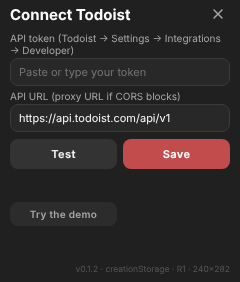
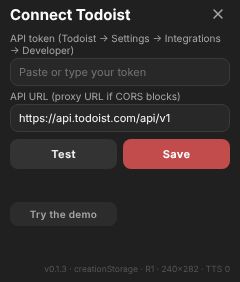
Todoist 0.1.3: read aloud with the device voice first
On the R1 the read-aloud text went through the R1's LLM, which
embellished it. The app now tries the webview's speech synthesis first
(word for word, no LLM) when it has a voice in the app language and it
starts within 1.5 s; otherwise it falls back to the R1 voice with a
stricter prompt. The toast names the voice used and setup shows the
number of TTS voices. German and English, both READMEs, 121 checks.

Claude-Session: https://claude.ai/code/session_0169St2Lp8zqAJDK5dLJTKNS

Changed region(s): [[0.5833, 0.9362, 0.9625, 0.9645], [0.2625, 0.9362, 0.525, 0.9645], [0.175, 0.9362, 0.2333, 0.9645]]

diff --git a/en/index.html b/en/index.html
@@ -219,7 +219,7 @@ textarea:focus, .inp:focus { border-color: #6E6E6E; }
 // ====================================================================
 // Todoist for the Rabbit R1 — one file, no build step. German + English (I18N).
 // ====================================================================
-const APP_VERSION = '0.1.2';
+const APP_VERSION = '0.1.3';
 const API_BASE = 'https://api.todoist.com/api/v1';   // switch to a proxy URL in setup if CORS blocks
 const NS = 'todoist_';                                 // storage namespace (shared origin)
 const SYNC_MS = 60000;
@@ -257,14 +257,14 @@ const I18N = {
     err_429: 'Zu viele Anfragen (429) – später erneut', err_other: 'Fehler {0}',
     loading: 'Lädt …', no_projects: 'Keine Projekte', nothing_found: 'Nichts gefunden',
     search_empty: 'Tippe oder halte PTT<br>zum Diktieren', all_done: 'Alles erledigt.<br>PTT halten oder + für neue Aufgabe',
-    pending: 'wartet auf Sync', saved_to: 'Gespeichert → {0}', reading: 'Lese {0} vor …',
+    pending: 'wartet auf Sync', saved_to: 'Gespeichert → {0}', reading: 'Lese {0} vor …', via_device: 'Gerätestimme', via_r1: 'R1-Stimme',
     nothing_heard: 'Nichts gehört', nothing_heard_long: 'Nichts gehört – PTT halten und sprechen',
     empty_discarded: 'Leer – verworfen', discarded: 'Verworfen',
     d_today: 'Heute', d_tomorrow: 'Morgen', d_yesterday: 'Gestern',
     months: ['Jan', 'Feb', 'März', 'Apr', 'Mai', 'Juni', 'Juli', 'Aug', 'Sept', 'Okt', 'Nov', 'Dez'],
     no_tasks: '{0}: keine Aufgaben.', task1: 'Aufgabe', taskN: 'Aufgaben', project1: 'Projekt', projectN: 'Projekte',
     numbers: ['Eins', 'Zwei', 'Drei', 'Vier', 'Fünf', 'Sechs', 'Sieben', 'Acht'],
-    speak_prompt: 'Sprich genau diesen Text, ohne Zusätze, ohne Einleitung und ohne Kommentar: "{0}"', tts: 'de-DE'
+    speak_prompt: 'Du bist nur eine Vorlesestimme. Gib ausschließlich den folgenden Text aus, Wort für Wort, und sonst nichts: keine Begrüßung, keine Einleitung, keine Zusammenfassung, keine Rückfrage, kein Kommentar, nichts davor oder danach.\n\n{0}', tts: 'de-DE'
   },
   en: {
     inbox: 'Inbox', today: 'Today', search: 'Search', browse: 'Browse', project: 'Project',
@@ -290,14 +290,14 @@ const I18N = {
     err_429: 'Too many requests (429) – retrying later', err_other: 'Error {0}',
     loading: 'Loading …', no_projects: 'No projects', nothing_found: 'Nothing found',
     search_empty: 'Type, or hold PTT<br>to dictate', all_done: 'All done.<br>Hold PTT or tap + for a new task',
-    pending: 'waiting to sync', saved_to: 'Saved → {0}', reading: 'Reading {0} …',
+    pending: 'waiting to sync', saved_to: 'Saved → {0}', reading: 'Reading {0} …', via_device: 'device voice', via_r1: 'R1 voice',
     nothing_heard: 'Nothing heard', nothing_heard_long: 'Nothing heard – hold PTT and speak',
     empty_discarded: 'Empty – discarded', discarded: 'Discarded',
     d_today: 'Today', d_tomorrow: 'Tomorrow', d_yesterday: 'Yesterday',
     months: ['Jan', 'Feb', 'Mar', 'Apr', 'May', 'Jun', 'Jul', 'Aug', 'Sep', 'Oct', 'Nov', 'Dec'],
     no_tasks: '{0}: no tasks.', task1: 'task', taskN: 'tasks', project1: 'project', projectN: 'projects',
     numbers: ['One', 'Two', 'Three', 'Four', 'Five', 'Six', 'Seven', 'Eight'],
-    speak_prompt: 'Say exactly this text, with nothing added, no introduction and no comment: "{0}"', tts: 'en-US'
+    speak_prompt: 'You are only a text-to-speech voice. Output only the following text, word for word, and nothing else: no greeting, no introduction, no summary, no follow-up question, no comment, nothing before or after it.\n\n{0}', tts: 'en-US'
   }
 };
 const L = I18N[LANG];
@@ -1023,18 +1023,46 @@ function speakList() {
     const noun = S.view === 'browse' ? tx(total === 1 ? 'project1' : 'projectN') : tx(total === 1 ? 'task1' : 'taskN');
     text = titleFor() + ', ' + total + ' ' + noun + '. ' + items.map((t, i) => words[i] + ': ' + String(t.content || t.name).replace(/["„“]/g, '').replace(/[.!?]+$/, '') + '.').join(' ');
   }
-  if (IS_R1) {
+  const n = Math.min(8, S.items.length);
+  const viaR1 = () => {
     try {
       PluginMessageHandler.postMessage(JSON.stringify({
         message: tx('speak_prompt', text),
         useLLM: true, wantsR1Response: true
       }));
     } catch (e) {}
-  } else if (window.speechSynthesis) {
-    try { const u = new SpeechSynthesisUtterance(text); u.lang = tx('tts'); speechSynthesis.cancel(); speechSynthesis.speak(u); } catch (e) {}
-  }
-  toast(tx('reading', Math.min(8, S.items.length)), 1600);
+    toast(tx('reading', n) + ' · ' + tx('via_r1'), 1600);
+  };
+  // The device voice reads word for word; the R1 voice goes through its LLM,
+  // which may embellish. So try the device voice first and fall back.
+  speakDevice(text, () => { toast(tx('reading', n) + ' · ' + tx('via_device'), 1600); }, IS_R1 ? viaR1 : () => {});
 }
+
+// Web Speech synthesis, if the webview has a voice in our language. On the R1
+// it only counts if speech actually starts within 1.5 s; otherwise onFail.
+function deviceVoice() {
+  try {
+    const want = tx('tts').slice(0, 2).toLowerCase();
+    return (window.speechSynthesis && speechSynthesis.getVoices() || [])
+      .find((v) => (v.lang || '').replace('_', '-').toLowerCase().slice(0, 2) === want) || null;
+  } catch (e) { return null; }
+}
+function speakDevice(text, onStart, onFail) {
+  let settled = false;
+  const fail = () => { if (settled) return; settled = true; try { speechSynthesis.cancel(); } catch (e) {} onFail(); };
+  const voice = deviceVoice();
+  if (!window.speechSynthesis || typeof SpeechSynthesisUtterance === 'undefined' || (IS_R1 && !voice)) { settled = true; onFail(); return; }
+  try {
+    const u = new SpeechSynthesisUtterance(text);
+    u.lang = tx('tts'); if (voice) { try { u.voice = voice; } catch (e) {} }
+    u.onstart = () => { if (settled) return; settled = true; onStart(); };
+    u.onerror = fail;
+    speechSynthesis.cancel(); speechSynthesis.speak(u);
+    if (IS_R1) setTimeout(fail, 1500);
+    else { settled = true; onStart(); }
+  } catch (e) { fail(); }
+}
+try { if (window.speechSynthesis) { speechSynthesis.getVoices(); speechSynthesis.addEventListener('voiceschanged', () => {}); } } catch (e) {}
 
 // ---------------- screens ----------------
 function show(name) {
@@ -1148,7 +1176,8 @@ function openSetup(first) {
   $('st-queue').textContent = tx('queue_clear', n);
   $('st-queue').style.visibility = n ? 'visible' : 'hidden';
   $('st-ver').textContent = 'v' + APP_VERSION + ' · ' + (SDK ? 'creationStorage' : 'localStorage') + (IS_R1 ? ' · R1' : ' · Desktop')
-    + ' · ' + window.innerWidth + '×' + window.innerHeight;
+    + ' · ' + window.innerWidth + '×' + window.innerHeight
+    + ' · TTS ' + (window.speechSynthesis ? (speechSynthesis.getVoices() || []).length + (deviceVoice() ? '+' : '') : '–');
   show('setup');
 }
 function setupMsg(text, cls) { const el = $('st-msg'); el.textContent = text; el.className = cls || ''; }

diff --git a/en/install.html b/en/install.html
@@ -37,7 +37,7 @@ li { margin: 4px 0; } code { font-size: 12px; }
 <script>
 // The QR is built from wherever this page is served, so forks need no edits.
 // Fallback: the pre-rendered qr.png (GitHub Pages URL) stays visible if the CDN is blocked.
-var ENTRY = 'index-v0.1.2.html';
+var ENTRY = 'index-v0.1.3.html';
 var url = location.href.replace(/install\.html.*$/, '') + ENTRY + '?v=1';
 var payload = JSON.stringify({
   title: 'Todoist',

diff --git a/install.html b/install.html
@@ -37,7 +37,7 @@ li { margin: 4px 0; } code { font-size: 12px; }
 <script>
 // The QR is built from wherever this page is served, so forks need no edits.
 // Fallback: the pre-rendered qr.png (GitHub Pages URL) stays visible if the CDN is blocked.
-var ENTRY = 'index-v0.1.2.html';
+var ENTRY = 'index-v0.1.3.html';
 var url = location.href.replace(/install\.html.*$/, '') + ENTRY + '?v=1';
 var payload = JSON.stringify({
   title: 'Todoist',

diff --git a/README.md b/README.md
@@ -29,7 +29,7 @@ R1: Creations-Karte → „add via QR code“ → scannen.
 
 Englische Version: QR in [`en/qr.png`](en/qr.png) bzw. auf `en/install.html`, Anleitung in [README.en.md](README.en.md).
 
-Der QR enthält nur `{"title":"Todoist","url":".../todoist/index-v0.1.2.html?v=1","description":…,"iconUrl":…,"themeColor":"#C24B4B"}`,
+Der QR enthält nur `{"title":"Todoist","url":".../todoist/index-v0.1.3.html?v=1","description":…,"iconUrl":…,"themeColor":"#C24B4B"}`,
 niemals den Token. `install.html` zeigt denselben Code im Browser und baut ihn aus der eigenen Adresse,
 funktioniert also auch auf einem anderen Host.
 
@@ -61,7 +61,7 @@ muss der Token einmal neu eingegeben werden.
 | Kreis antippen | erledigen | | |
 | Karte antippen | 1. Tipp auswählen, 2. Tipp bearbeiten | | |
 | Plus antippen / halten | Texteingabe / Sprachaufnahme | | |
-| Lautsprecher | liest die ersten 8 Aufgaben der Liste vor | | |
+| Lautsprecher | liest die ersten 8 Aufgaben der Liste vor (Gerätestimme, sonst R1-Stimme) | | |
 | Sync-Punkt antippen | sofort synchronisieren, Status anzeigen | | |
 | Bildschirm 1 s halten | Setup | | |
 
@@ -175,9 +175,9 @@ node test/harness.mjs      # Node 22+, Chrome/Chromium (CHROME=/pfad/zu/chrome)
 
 Fährt die echte `index.html` in Headless-Chrome gegen eine gemockte Todoist-API v1 (mit absichtlich
 kleinen Seiten für die Cursor-Logik) und stubbt `CreationVoiceHandler`, `PluginMessageHandler` und
-`creationStorage`. 112 Prüfungen: Sprach-Sync (Deutsch = Englisch), Setup und Verbindungstest (OK, 401, CORS), Heute/Eingang/Browsen/Projekt/
+`creationStorage`. 121 Prüfungen: Sprach-Sync (Deutsch = Englisch), Setup und Verbindungstest (OK, 401, CORS), Heute/Eingang/Browsen/Projekt/
 Suchen, Scrollrad und Side-Button, Doppelklick-Schutz, Erledigen per Kreis und Taste mit Rückgängig,
-Sprache → Review → Senden/Verwerfen, Plus tippen/halten, Bearbeiten, Vorlesen (max. 8, fester Wortlaut),
+Sprache → Review → Senden/Verwerfen, Plus tippen/halten, Bearbeiten, Vorlesen (max. 8, Gerätestimme mit Rückfall auf die R1-Stimme, fester Wortlaut),
 Offline-Queue über einen Neustart, abgelehnte Writes, Token nur im Secure Storage, Layout 240×282,
 Layout bei 282 und 320 px Höhe, Demo-Modus, Proxy und ein englischer Durchlauf (Texte, Datumsformat,
 Vorlese-Prompt). Die Screenshots schreibt derselbe Lauf nach `screenshots/` und `screenshots/en/`.
@@ -193,10 +193,18 @@ Sprachaufnahme per PTT (`CreationVoiceHandler`) → Review → Senden funktionie
 Die App misst die Höhe selbst (`fitScreen()`): Meldet ein Webview mehr als 282 px, gilt der Überschuss
 oben als von der Leiste verdeckt. Das Setup zeigt unten die gemessene Größe (z. B. `240×282`).
 
+**Vorlesen** (v0.1.2 getestet): funktioniert, aber das R1-LLM schmückt den Text aus. Seit v0.1.3 liest
+die App zuerst mit der Gerätestimme (`speechSynthesis`, wörtlich, ohne LLM), wenn der Webview eine
+Stimme in der App-Sprache hat und sie innerhalb von 1,5 s startet. Sonst geht der Text wie bisher an
+die R1-Stimme, jetzt mit strengerem Prompt (Rolle „reine Vorlesestimme“, Text abgesetzt, Begrüßung,
+Einleitung, Zusammenfassung und Rückfragen ausdrücklich verboten). Die Meldung nennt den Weg
+(„Gerätestimme“ oder „R1-Stimme“), das Setup zeigt unten `TTS n` (Zahl der Stimmen, `+` = passende Stimme).
+
 Noch offen:
 
+- **Gerätestimme auf dem R1**: ob der Webview überhaupt Stimmen hat (Setup: `TTS 0` = nein).
+- Ob der strengere Prompt das Ausschmücken der R1-Stimme genug bremst.
 - **Plus halten** als Alternative zu PTT.
-- **Vorlesen**: ob das R1-LLM den Text wörtlich spricht oder ausschmückt.
 - **Quick Add auf Deutsch**: ob „morgen“ erkannt wird, hängt von der Spracheinstellung des Todoist-Kontos ab.
 - `creationStorage.secure` auf dem Gerät (fällt sonst auf `.plain` zurück, nie auf `localStorage`).
 - `longPressEnd` und Plus-Halten mit echtem Touch, R1-Tastatur in Setup, Editor und Suchfeld.
@@ -207,7 +215,7 @@ Noch offen:
 | Pfad | Inhalt |
 | --- | --- |
 | `index.html` | die Creation (einzige Quelle, beide Sprachen) |
-| `index-v0.1.2.html` | versionierte Kopie, auf die der QR zeigt (ältere bleiben für installierte Karten) |
+| `index-v0.1.3.html` | versionierte Kopie, auf die der QR zeigt (ältere bleiben für installierte Karten) |
 | `install.html` | Install-Seite mit QR |
 | `en/` | englische Version: `index.html` (Kopie), `index-v….html`, `install.html`, `qr.png` |
 | `release.py` | Sprach-Sync und Releases (versionierte Dateien, QR-Codes) |

diff --git a/README.en.md b/README.en.md
@@ -29,7 +29,7 @@ On the R1: creations card → "add via QR code" → scan this code.
 ![Install QR code (English)](en/qr.png)
 
 The same code is shown on `https://luxx1993.github.io/r1-creations/todoist/en/install.html`.
-It contains only `{"title":"Todoist","url":".../todoist/en/index-v0.1.2.html?v=1","description":"Todoist tasks on the R1","iconUrl":…,"themeColor":"#C24B4B"}`.
+It contains only `{"title":"Todoist","url":".../todoist/en/index-v0.1.3.html?v=1","description":"Todoist tasks on the R1","iconUrl":…,"themeColor":"#C24B4B"}`.
 
 ## Set up your token
 
@@ -58,7 +58,7 @@ enter the token once more.
 | Tap the circle | complete | | |
 | Tap a card | first tap selects, second tap edits | | |
 | Tap / hold + | type a task / dictate a task | | |
-| Speaker icon | reads the first 8 tasks of the list aloud | | |
+| Speaker icon | reads the first 8 tasks of the list aloud (device voice, else the R1 voice) | | |
 | Tap the sync dot | sync now and show the status | | |
 | Hold the screen 1 s | setup | | |
 
@@ -114,7 +114,7 @@ node test/harness.mjs           # Node 22+, Chrome/Chromium; fails if the Englis
 ```
 
 The harness drives the real page in headless Chrome against a mock Todoist API v1, with stubs for the
-R1 bridges (`CreationVoiceHandler`, `PluginMessageHandler`, `creationStorage`). It runs 112 checks,
+R1 bridges (`CreationVoiceHandler`, `PluginMessageHandler`, `creationStorage`). It runs 121 checks,
 including a full English pass, and writes the screenshots above.
 
 Todoist API used: `GET /projects`, `GET /tasks?project_id=…`, `GET /tasks/filter?query=today | overdue`,
@@ -123,8 +123,11 @@ Todoist API used: `GET /projects`, `GET /tasks?project_id=…`, `GET /tasks/filt
 
 ## Known limits
 
-- Reading aloud goes through the R1's built-in LLM. The prompt pins the wording, but the LLM may
-  still add words; the screen is the main output.
+- Reading aloud: the app first tries the webview's own speech synthesis, which reads word for word.
+  If the R1 has no voice in the app language (setup shows `TTS 0`), or it does not start within 1.5 s,
+  the text goes to the R1 voice. That voice runs through the R1's built-in LLM: the prompt pins the
+  wording, but the LLM may still add words. The toast says which voice was used; the screen stays the
+  main output.
 - If the connection drops right after a task was created, the retry can create it a second time.
 - Large accounts: Search and Browse load all open tasks.
 
